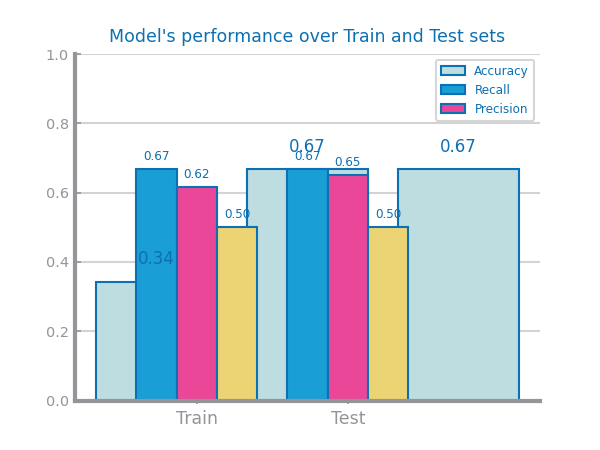
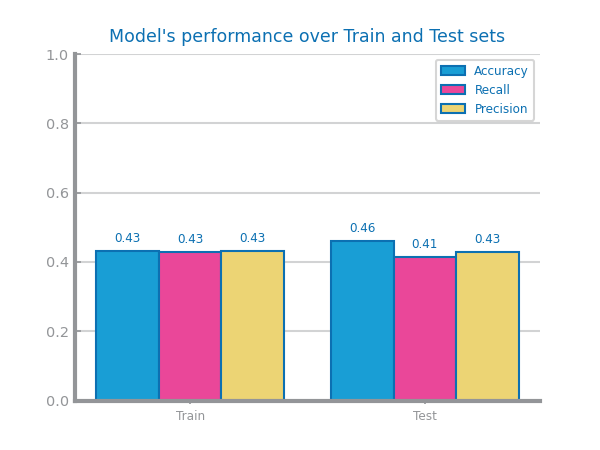
Balancing a funcionar, accuracy e recall muito baixas

diff --git a/Naive_Bayes_Balanced.py b/Naive_Bayes_Balanced.py
@@ -16,9 +16,10 @@ import itertools
 file_tag = 'diabetic'
 data = read_csv('data/Balancing/unbalanced.csv', index_col=0)
 target = 'readmitted'
+data[target]=2*data[target]
 
-verypositive = 1
-positive = 0.5
+verypositive = 2
+positive = 1
 negative = 0
 values = {'Original': [len(data[data[target] == verypositive]), len(data[data[target] == positive]), len(data[data[target] == negative])]}
 
@@ -39,7 +40,7 @@ train = concat([DataFrame(trnX, columns=data.columns), DataFrame(trnY,columns=[t
 original = train
 class_var = 'readmitted'
 target_count = original[class_var].value_counts()
-middle_class = 1
+middle_class = 2
 positive_class = target_count.idxmin()
 negative_class = target_count.idxmax()
 
@@ -157,6 +158,6 @@ evaluation = {
         'Accuracy': [accuracy_train, accuracy_test],
         'Recall': [recall_train, recall_test],
         'Precision': [precision_train, precision_test]}
-
+plt.figure()
 multiple_bar_chart(['Train', 'Test'], evaluation, title="Model's performance over Train and Test sets", percentage=True)
 savefig('images/balancing/Mean_BernoulliNB_study.png')
